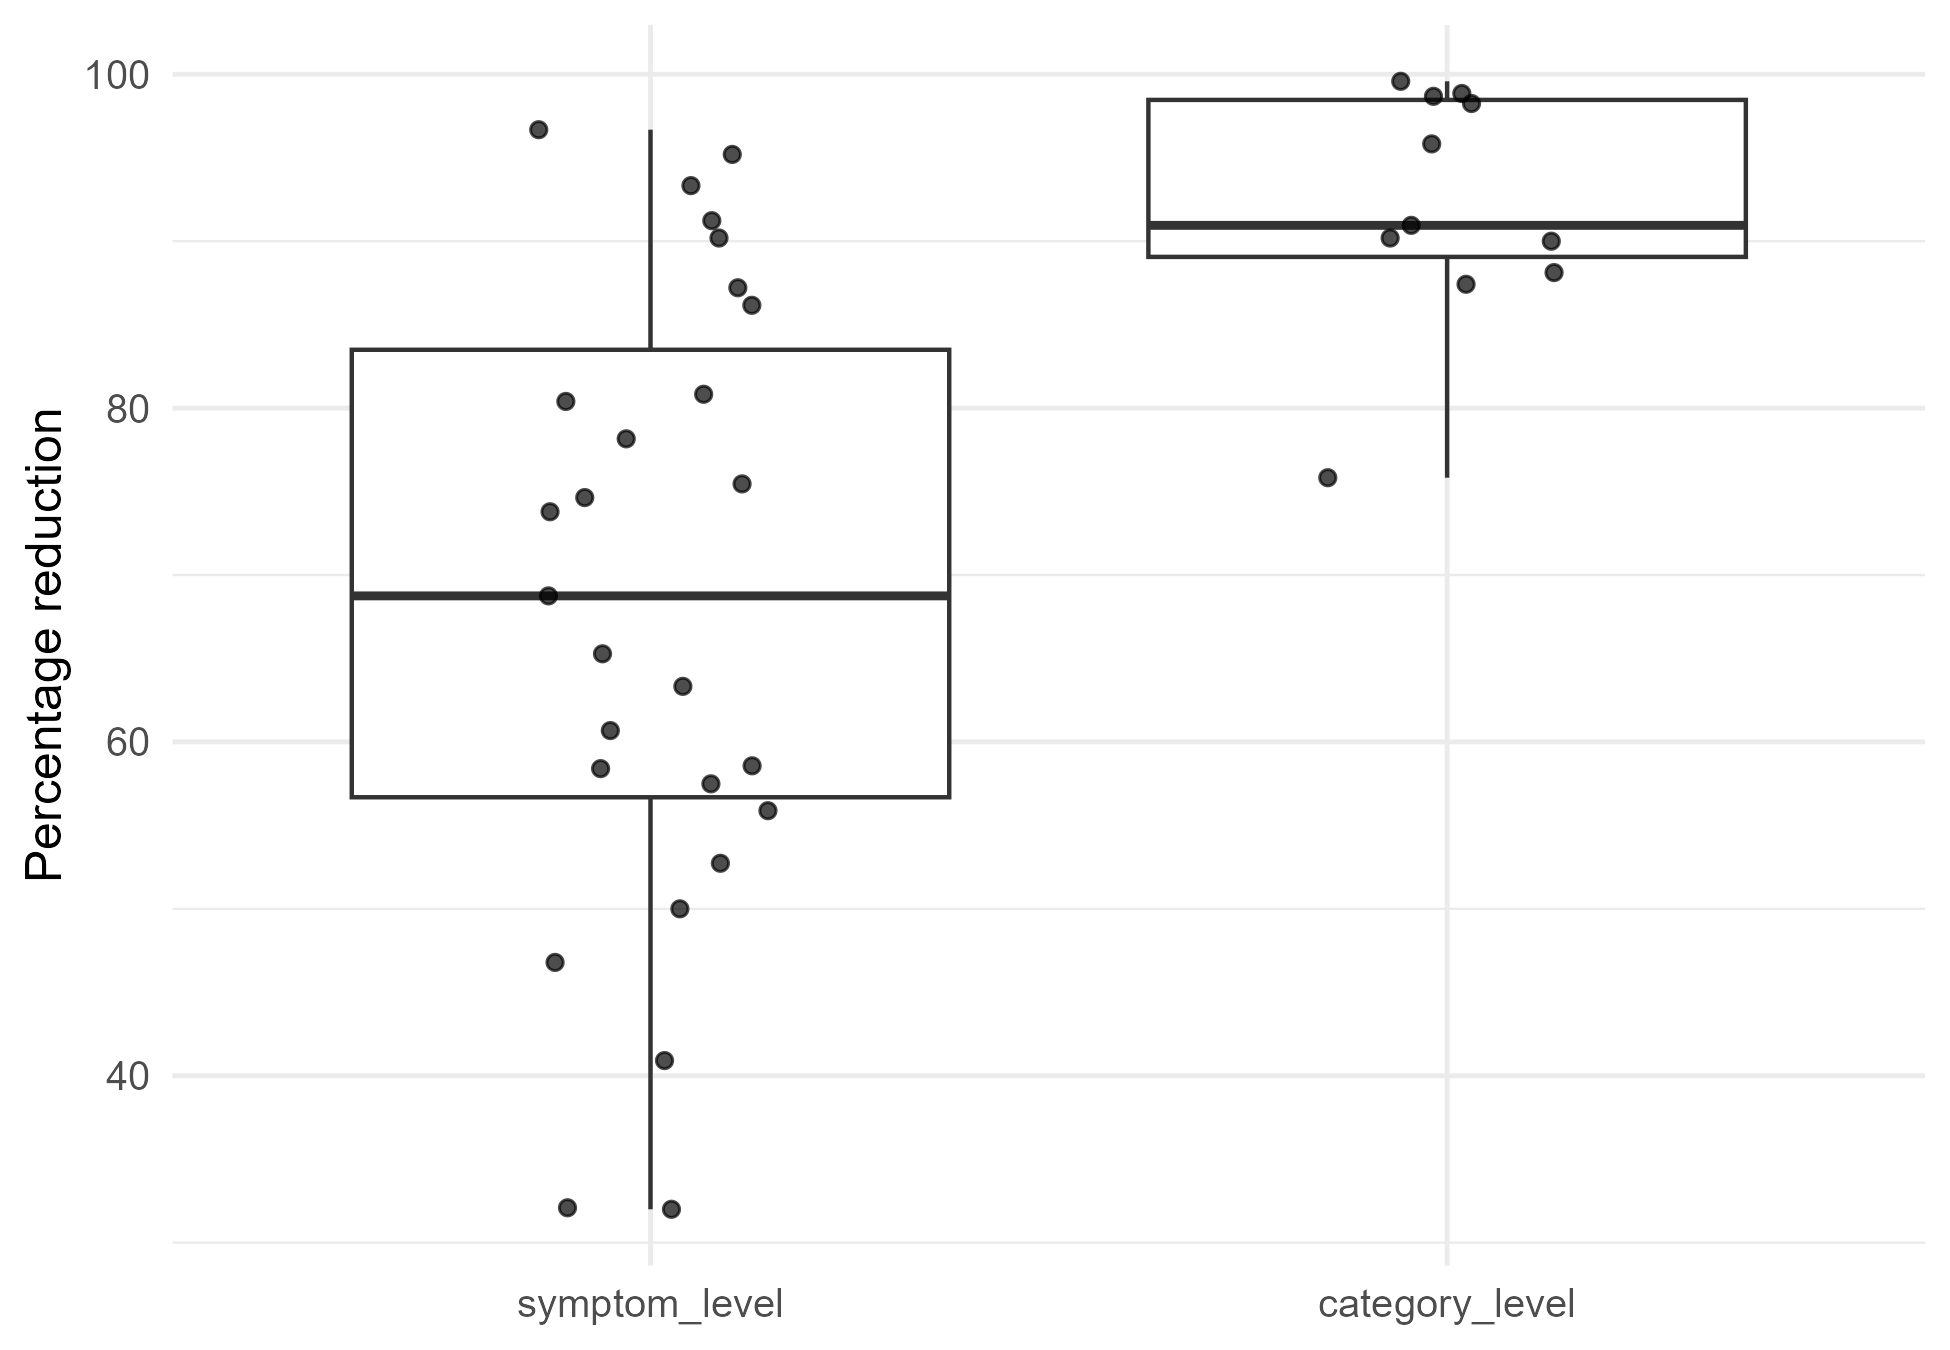
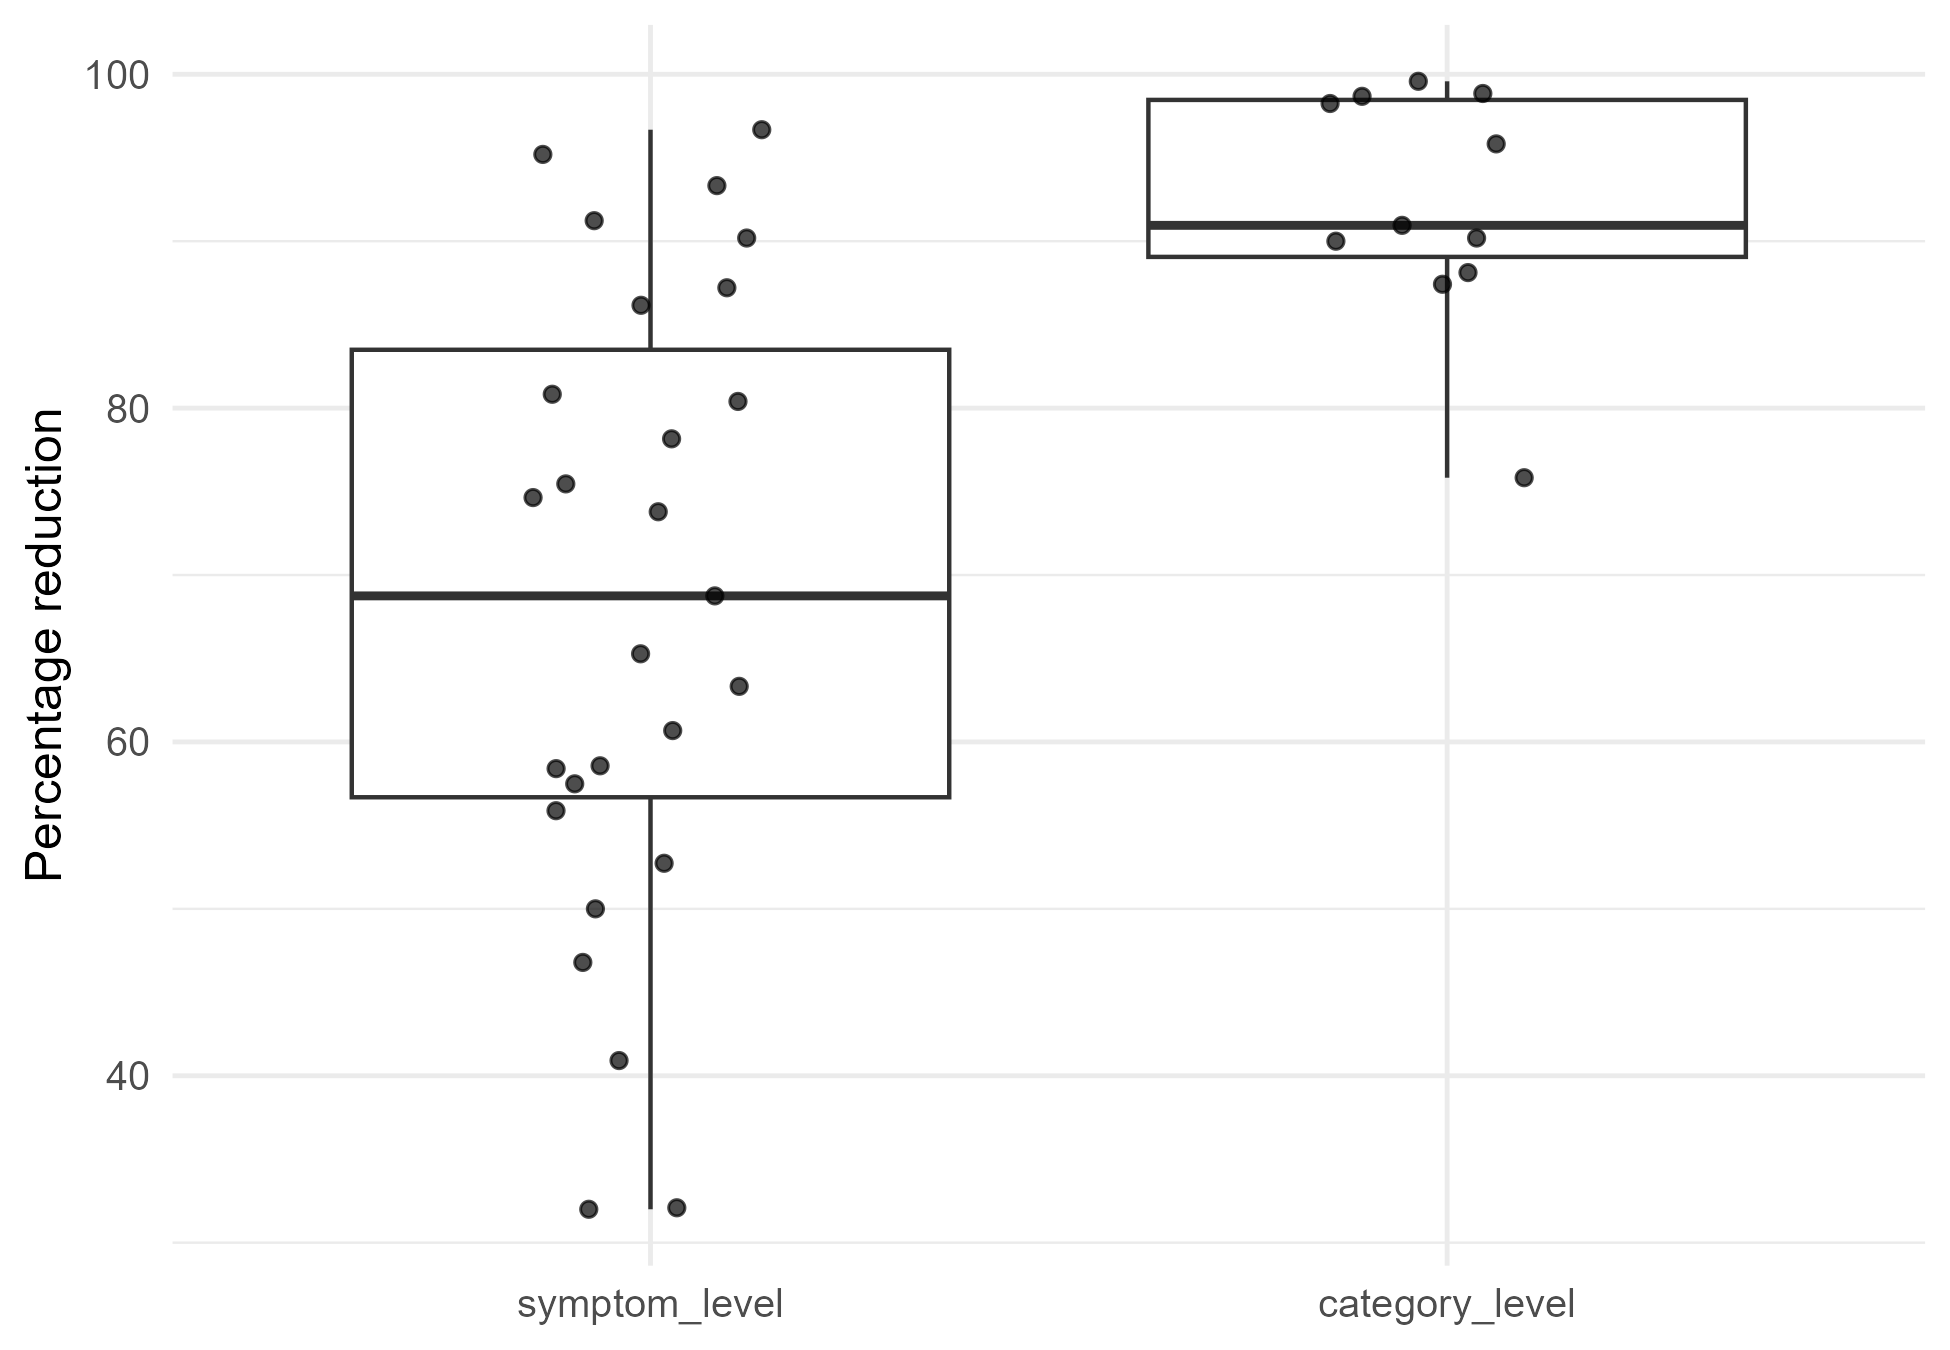
Search query and export uploaded

diff --git a/README.md b/README.md
@@ -1,2 +1,38 @@
-# ica-methods-synthesis
-Description of the current ICA landscape in psychology and psychology-adjacent fields and development of a more systematic and reproducible method for conducting ICAs
+# Item-Content Analysis Across Psychology and Adjacent Fields: A Methodological Synthesis
+
+## Overview
+
+This repository provides data, materials, and code for the thesis *Item-Content Analysis Across Psychology and Adjacent Fields: A Methodological Synthesis*.
+
+The project examines how item-content analyses (ICAs) are currently conducted and reported across psychology and adjacent fields. Rather than comparing overlap estimates across studies directly, the repository documents the procedural and reporting decisions that shape ICA workflows and their interpretation.
+
+## Author
+
+Tim Schneeberger
+
+## Folder Structure
+
+`/code` contains the R scripts and R Markdown files used for data processing, descriptive analyses, figures, tables, and supplementary outputs.
+
+`/data/raw` contains the manually assembled and minimally processed source materials for the project. Depending on the subproject, this includes search and screening records, extraction sheets, and reliability-check materials.
+
+`/data/processed` contains cleaned and analysis-ready data generated from the raw materials using the scripts in `/code`.
+
+`/methods` contains materials used to make the procedure transparent and reproducible, especially the extraction codebook and related instructions or development files.
+
+`/supplementary-materials` contains files intended to accompany the thesis, including supplementary tables, the commented R Markdown analysis file, and a knitted HTML version for readability.
+
+Optional folders may be added where useful, for example for archived outputs, manuscript materials, or figures prepared for the thesis itself.
+
+## How To Reproduce This Project
+
+* Start with the files in `/methods` to understand the extraction framework and coding rules.
+* The raw project materials are stored in `/data/raw`.
+* Run the scripts in `/code` to generate cleaned datasets in `/data/processed` and to reproduce the reported analyses, tables, and figures.
+* Supplementary outputs and readable analysis documents are stored in `/supplementary-materials`.
+
+## License
+
+(c) Tim Schneeberger 2026
+
+Released under a CC BY 4.0 license.
